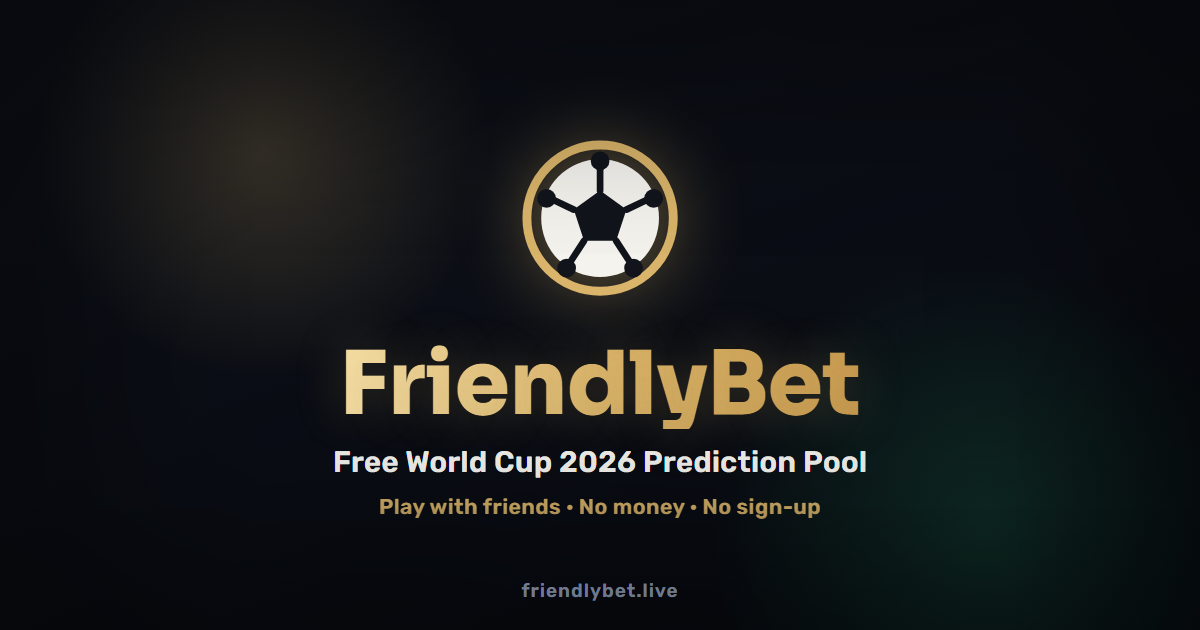
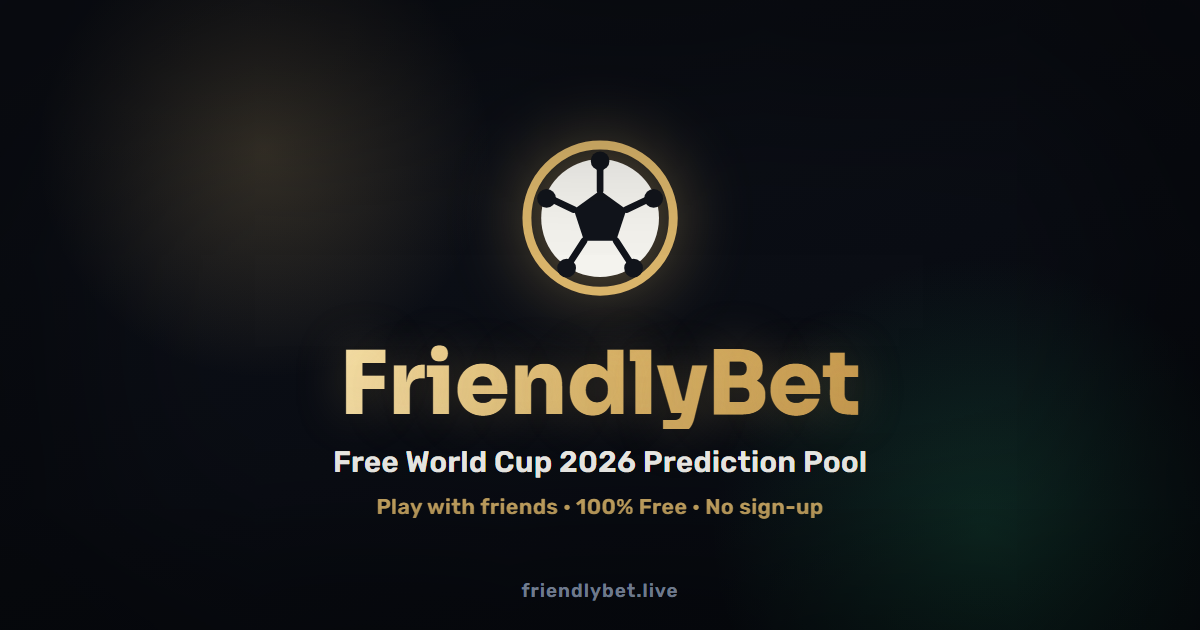
feat(invite): add Instagram, '100% free' on share image, trim modal copy (v2.6.83)
- Add an Instagram chip to the invite modal. IG has no web link-share
  intent, so shareToInstagram() copies the invite link, toasts 'paste it
  into your story/DM', and opens Instagram. A lone trailing chip (7 chips:
  3+3+1) is centered in the middle column.
- Share-preview OG image: replace 'No money' / 'בלי כסף' with '100% Free' /
  '100% חינם'. Regenerated og-image(.he)(-square).png from the templates.
- Trim repetitive modal copy: dropped the subtitle line and gave the modal
  its own short title ('Invite friends'); the three near-identical
  'join in one click' lines are now one tight line.

Changed region(s): [[0.3083, 0.7841, 0.6783, 0.8444]]

diff --git a/index.html b/index.html
@@ -2230,13 +2230,12 @@ function loadTablerFallback() {
             <line x1="23" y1="11" x2="17" y2="11"></line>
           </svg>
         </div>
-        <div class="share-title" data-i18n="dashboard.invite.title">הזמן חברים להימור</div>
-        <div class="share-subtitle" data-i18n="shareModal.subtitle">שלח להם את הקישור והם יצטרפו בלחיצה אחת</div>
+        <div class="share-title" data-i18n="shareModal.title">הזמינו חברים</div>
       </div>
 
       <!-- One-click join reassurance: the core message. A friend who taps the
            link joins instantly, no signup, no app to install. -->
-      <div class="share-oneclick" data-i18n="shareModal.oneClick">מי שלוחץ על הלינק מצטרף להימור בקליק אחד — בלי הרשמה, בלי להוריד אפליקציה</div>
+      <div class="share-oneclick" data-i18n="shareModal.oneClick">מצטרפים בקליק אחד — בלי הרשמה ובלי להוריד אפליקציה</div>
 
       <!-- PRIMARY: native OS share sheet. The user picks ANY installed app
            themselves (WhatsApp, Instagram, Messenger, Signal, Mail, SMS...).
@@ -2265,6 +2264,12 @@ function loadTablerFallback() {
             <path d="M11.944 0A12 12 0 0 0 0 12a12 12 0 0 0 12 12 12 12 0 0 0 12-12A12 12 0 0 0 12 0a12 12 0 0 0-.056 0zm4.962 7.224c.1-.002.321.023.465.14a.506.506 0 0 1 .171.325c.016.093.036.306.02.472-.18 1.898-.962 6.502-1.36 8.627-.168.9-.499 1.201-.82 1.23-.696.065-1.225-.46-1.9-.902-1.056-.693-1.653-1.124-2.678-1.8-1.185-.78-.417-1.21.258-1.91.177-.184 3.247-2.977 3.307-3.23.007-.032.014-.15-.056-.212s-.174-.041-.249-.024c-.106.024-1.793 1.14-5.061 3.345-.48.33-.913.49-1.302.48-.428-.008-1.252-.241-1.865-.44-.752-.245-1.349-.374-1.297-.789.027-.216.325-.437.893-.663 3.498-1.524 5.83-2.529 6.998-3.014 3.332-1.386 4.025-1.627 4.476-1.635z"/>
           </svg>
           <span>Telegram</span>
+        </button>
+        <button class="share-app-chip chip-instagram" onclick="shareToInstagram()" type="button" aria-label="Instagram">
+          <svg xmlns="http://www.w3.org/2000/svg" width="20" height="20" viewBox="0 0 24 24" fill="currentColor" aria-hidden="true">
+            <path d="M12 2.163c3.204 0 3.584.012 4.85.07 3.252.148 4.771 1.691 4.919 4.919.058 1.265.069 1.645.069 4.849 0 3.205-.012 3.584-.069 4.849-.149 3.225-1.664 4.771-4.919 4.919-1.266.058-1.644.07-4.85.07-3.204 0-3.584-.012-4.849-.07-3.26-.149-4.771-1.699-4.919-4.92-.058-1.265-.07-1.644-.07-4.849 0-3.204.013-3.583.07-4.849.149-3.227 1.664-4.771 4.919-4.919 1.266-.057 1.645-.069 4.849-.069zm0-2.163c-3.259 0-3.667.014-4.947.072-4.358.2-6.78 2.618-6.98 6.98-.059 1.281-.073 1.689-.073 4.948 0 3.259.014 3.668.072 4.948.2 4.358 2.618 6.78 6.98 6.98 1.281.058 1.689.072 4.948.072 3.259 0 3.668-.014 4.948-.072 4.354-.2 6.782-2.618 6.979-6.98.059-1.28.073-1.689.073-4.948 0-3.259-.014-3.667-.072-4.947-.196-4.354-2.617-6.78-6.979-6.98-1.281-.059-1.69-.073-4.949-.073zm0 5.838c-3.403 0-6.162 2.759-6.162 6.162s2.759 6.163 6.162 6.163 6.162-2.759 6.162-6.163c0-3.403-2.759-6.162-6.162-6.162zm0 10.162c-2.209 0-4-1.79-4-4 0-2.209 1.791-4 4-4s4 1.791 4 4c0 2.21-1.791 4-4 4zm6.406-11.845c-.796 0-1.441.645-1.441 1.44s.645 1.44 1.441 1.44c.795 0 1.439-.645 1.439-1.44s-.644-1.44-1.439-1.44z"/>
+          </svg>
+          <span>Instagram</span>
         </button>
         <button class="share-app-chip chip-x" onclick="shareToX()" type="button" aria-label="X">
           <svg xmlns="http://www.w3.org/2000/svg" width="18" height="18" viewBox="0 0 24 24" fill="currentColor" aria-hidden="true">
@@ -2977,7 +2982,7 @@ function loadTablerFallback() {
       <!-- SEO:guides-footer — crawlable link to the blog/guides hub (maintained by the SEO agent) -->
       <a href="/blog" class="menu-version" style="text-decoration:none">Blog</a>
       <a href="javascript:void(0)" class="menu-version" style="text-decoration:none" onclick="openFeedbackModal('footer')" data-i18n="feedback.menuItem">שלח משוב</a>
-      <span class="menu-version">v2.6.82</span>
+      <span class="menu-version">v2.6.83</span>
     </div>
   </div>
 

diff --git a/i18n.js b/i18n.js
@@ -848,13 +848,15 @@ const TRANSLATIONS = {
     'adminModal.removeText': 'פעולה זו תמחק את כל ההימורים שלו',
 
     // === Share modal ===
+    'shareModal.title': 'הזמינו חברים',
     'shareModal.subtitle': 'שלח להם את הקישור והם יצטרפו בלחיצה אחת',
-    'shareModal.oneClick': 'מי שלוחץ על הלינק מצטרף להימור בקליק אחד — בלי הרשמה, בלי להוריד אפליקציה',
+    'shareModal.oneClick': 'מצטרפים בקליק אחד — בלי הרשמה ובלי להוריד אפליקציה',
     'shareModal.shareWithFriends': 'שתפו עם החברים',
     'shareModal.copyForDesktop': 'העתק קישור להזמנה',
     'shareModal.orChoose': 'או בחרו אפליקציה',
     'shareModal.email': 'מייל',
     'shareModal.sms': 'SMS',
+    'shareModal.igCopied': 'הקישור הועתק — הדביקו אותו בסטורי או בהודעה באינסטגרם',
     'shareModal.emailSubject': 'הזמנה להימור "{poolName}" ב-FriendlyBet',
     'shareModal.copyHint': 'לחץ להעתקה',
     'shareModal.copyLink': 'העתק קישור',
@@ -2078,13 +2080,15 @@ const TRANSLATIONS = {
     'adminModal.removeText': 'This will delete all their picks',
 
     // === Share modal ===
+    'shareModal.title': 'Invite friends',
     'shareModal.subtitle': 'Send them the link and they join in one tap',
-    'shareModal.oneClick': 'Anyone who taps the link joins in one click — no signup, no app to download',
+    'shareModal.oneClick': 'Join in one click — no signup, no app to install',
     'shareModal.shareWithFriends': 'Share with friends',
     'shareModal.copyForDesktop': 'Copy invite link',
     'shareModal.orChoose': 'Or pick an app',
     'shareModal.email': 'Email',
     'shareModal.sms': 'SMS',
+    'shareModal.igCopied': 'Link copied — paste it into your Instagram story or DM',
     'shareModal.emailSubject': 'Invitation to the "{poolName}" pool on FriendlyBet',
     'shareModal.copyHint': 'Tap to copy',
     'shareModal.copyLink': 'Copy link',

diff --git a/app.js b/app.js
@@ -6974,6 +6974,23 @@ function shareToFacebook() {
   window.open(url, '_blank', 'noopener');
 }
 
+async function shareToInstagram() {
+  // Instagram has no web link-share intent, so copy the invite link and tell
+  // the user to paste it into a story or DM, then open Instagram (app on
+  // mobile, web otherwise) so they can paste right away.
+  const url = getInviteUrl('instagram');
+  try {
+    await navigator.clipboard.writeText(url);
+  } catch (err) {
+    const tmp = document.createElement('input');
+    tmp.value = url; document.body.appendChild(tmp); tmp.select();
+    try { document.execCommand('copy'); } catch (e) {}
+    document.body.removeChild(tmp);
+  }
+  showToast(t('shareModal.igCopied'), 'success');
+  setTimeout(() => { window.open('https://www.instagram.com/', '_blank', 'noopener'); }, 500);
+}
+
 function shareByEmail() {
   const poolName = state.currentPool?.name || t('dashboard.fallback.poolName');
   const subject = t('shareModal.emailSubject', { poolName });

diff --git a/styles.css b/styles.css
@@ -8310,11 +8310,15 @@ svg.rc-action-icon { width: 18px; height: 18px; stroke: currentColor; }
 .share-app-chip svg { display: block; }
 .share-app-chip.chip-whatsapp { color: #25D366; }
 .share-app-chip.chip-telegram { color: #2AABEE; }
+.share-app-chip.chip-instagram { color: #E4405F; }
 .share-app-chip.chip-x { color: #fff; }
 .share-app-chip.chip-facebook { color: #1877F2; }
 .share-app-chip.chip-email { color: #e0b15f; }
 .share-app-chip.chip-sms { color: #34C759; }
 .share-app-chip span { color: rgba(255, 255, 255, 0.85); }
+/* A lone trailing chip on its own row (7 chips -> 3+3+1) sits in the middle
+   column so it reads centered instead of stranded at the edge. */
+.share-app-chip:last-child:nth-child(3n + 1) { grid-column: 2; }
 
 .share-url-row {
   display: flex;

diff --git a/service-worker.js b/service-worker.js
@@ -5,7 +5,7 @@
 // Strategy: Cache-first for assets, Network-first for API
 // ============================================================
 
-const CACHE_VERSION = 'friendlybet-v2.6.82';
+const CACHE_VERSION = 'friendlybet-v2.6.83';
 const STATIC_CACHE = `${CACHE_VERSION}-static`;
 const RUNTIME_CACHE = `${CACHE_VERSION}-runtime`;
 

diff --git a/config.js b/config.js
@@ -7,7 +7,7 @@ const CONFIG = {
   SUPABASE_PUBLISHABLE_KEY: 'sb_publishable_Aj_p7rZjAat_-ros9gzD_g_AsPtotpU',
   
   APP_NAME: 'FriendlyBet',
-  APP_VERSION: '2.6.82',
+  APP_VERSION: '2.6.83',
   
   STORAGE_KEYS: {
     USER_ID: 'fb_user_id',
